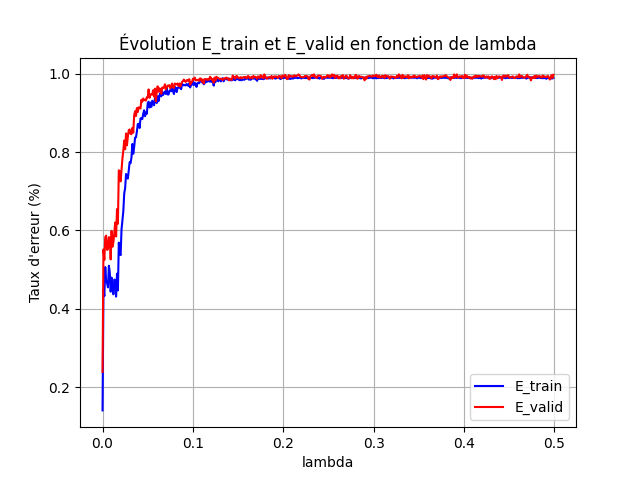
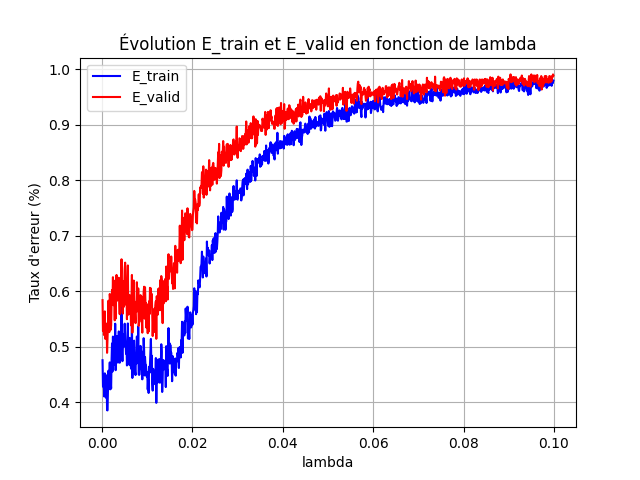
Régression logistique

diff --git a/regressionLogistique.py b/regressionLogistique.py
@@ -1,11 +1,6 @@
 """
-Dans cette classe, on implémente le SVM, K classes et d dimensions.
-REMARQUE : dans le chapitre sur les SVM, on a vu qu'il y avait un hyper-paramètre C. Mais celui est "caché" dans lambda, en effet, on a vu que la forme
-de l'erreur à minimiser dans le cas du SVM est la même que pour le perceptron, avec lambda = 1/(2C) et avec la loss "hinge".
-
-Le code est donc exactement le même que pour le perceptron, à la seule différence près qu'on utilise la loss "hinge" et pas la loss "perceptron".
-
-Rq : pour l'instant on ne gère que le cas linéaire --> rajouter le phi pour gérer le cas non linéaire (à voir)
+Dans cette classe, on implémente la régression logistique.
+La fonction de coût est la seule chose qui change par rapport au perceptron et aux SVM --> entropie croisée.
 """
 
 from sklearn.linear_model import SGDClassifier
@@ -14,11 +9,11 @@ import lireDonnees
 import numpy as np
 import matplotlib.pyplot as plt
 
-class svm:
+class regressionLogistique:
 
     def __init__(self, lamb):
-        self.lamb = lamb #hyper-paramètre C caché
-        self.clf = SGDClassifier(loss="hinge",alpha=self.lamb, eta0=0.01)
+        self.lamb = lamb
+        self.clf = SGDClassifier(loss="log_loss",alpha=self.lamb, eta0=0.01)
 
     def entrainement(self, x_train, t_train, recherche_hyp_param):
         """
@@ -109,7 +104,7 @@ class svm:
         plt.title("Évolution E_train et E_valid en fonction de lambda")
         plt.legend()
         plt.grid(True)
-        plt.savefig("figures/svmCrossValidation.png")
+        plt.savefig("figures/regLogCrossValidation.png")
 
 
     def erreur_train_valid(self, x_tab, t_tab, k):
@@ -154,7 +149,7 @@ class svm:
         plt.ylabel("Taux d'erreur")
         plt.ylim(0,1)
         plt.title(f"Erreur d'entraînement et de validation, lambda = {self.lamb}")
-        plt.savefig("figures/svmErreur.png")
+        plt.savefig("figures/regLogErreur.png")
         return E_train, E_valid
 
 def main():
@@ -163,10 +158,10 @@ def main():
     x_train,t_train = rd.extract_train_data()
     
     # Modèle :
-    SVM = svm(lamb=0.001)
+    RegLog = regressionLogistique(lamb=0.001)
     #perc.entrainement(x_train, t_train, recherche_hyp_param=True) #pour recherche hyper-paramètres
     #print(perc.lamb)
-    E_train, E_valid = SVM.erreur_train_valid(x_train, t_train, 10)
+    E_train, E_valid = RegLog.erreur_train_valid(x_train, t_train, 10)
     print("Taux d'erreur d'entraînement : % .2f" % E_train)
     print("Taux d'erreur de validation : % .2f" % E_valid)
 

diff --git a/perceptron.py b/perceptron.py
@@ -158,14 +158,16 @@ def main():
     # Lecture des données :
     rd = lireDonnees.lireDonnees("data/train.csv","data/test.csv","data/sample_submission.csv")
     x_train,t_train = rd.extract_train_data()
+    x_test = rd.extract_test_data()
+    x_train_normalized, x_test_normalized = rd.normalize_data(x_train, x_test)
     
     # Modèle :
     perc = perceptron(lamb=0.01)
     #perc.entrainement(x_train, t_train, recherche_hyp_param=True) #pour recherche hyper-paramètres
     #print(perc.lamb)
     E_train, E_valid = perc.erreur_train_valid(x_train, t_train, 10)
-    print(f"Erreur moyenne d'entraînement : {np.round(100*E_train,1)} %")
-    print(f"Erreur moyenne de validation : {np.round(100*E_valid,1)} %")
+    print("Taux d'erreur d'entraînement : % .2f" % E_train)
+    print("Taux d'erreur de validation : % .2f" % E_valid)
 
 if __name__=="__main__":
     main()

diff --git a/README.md b/README.md
@@ -1,5 +1,11 @@
 # ProjetML
 
+## 6 méthodes au programme
+Ces méthodes sont les suivantes :
+- Perceptron : fichier ```perceptron.py``` ;
+- SVM : fichier ```svm.py```;
+- Régression logistique : fichier ```regressionLogistique.py```;
+
 ## Config environnement virtuel :
 
 ### Activer l'environnement virtuel :
